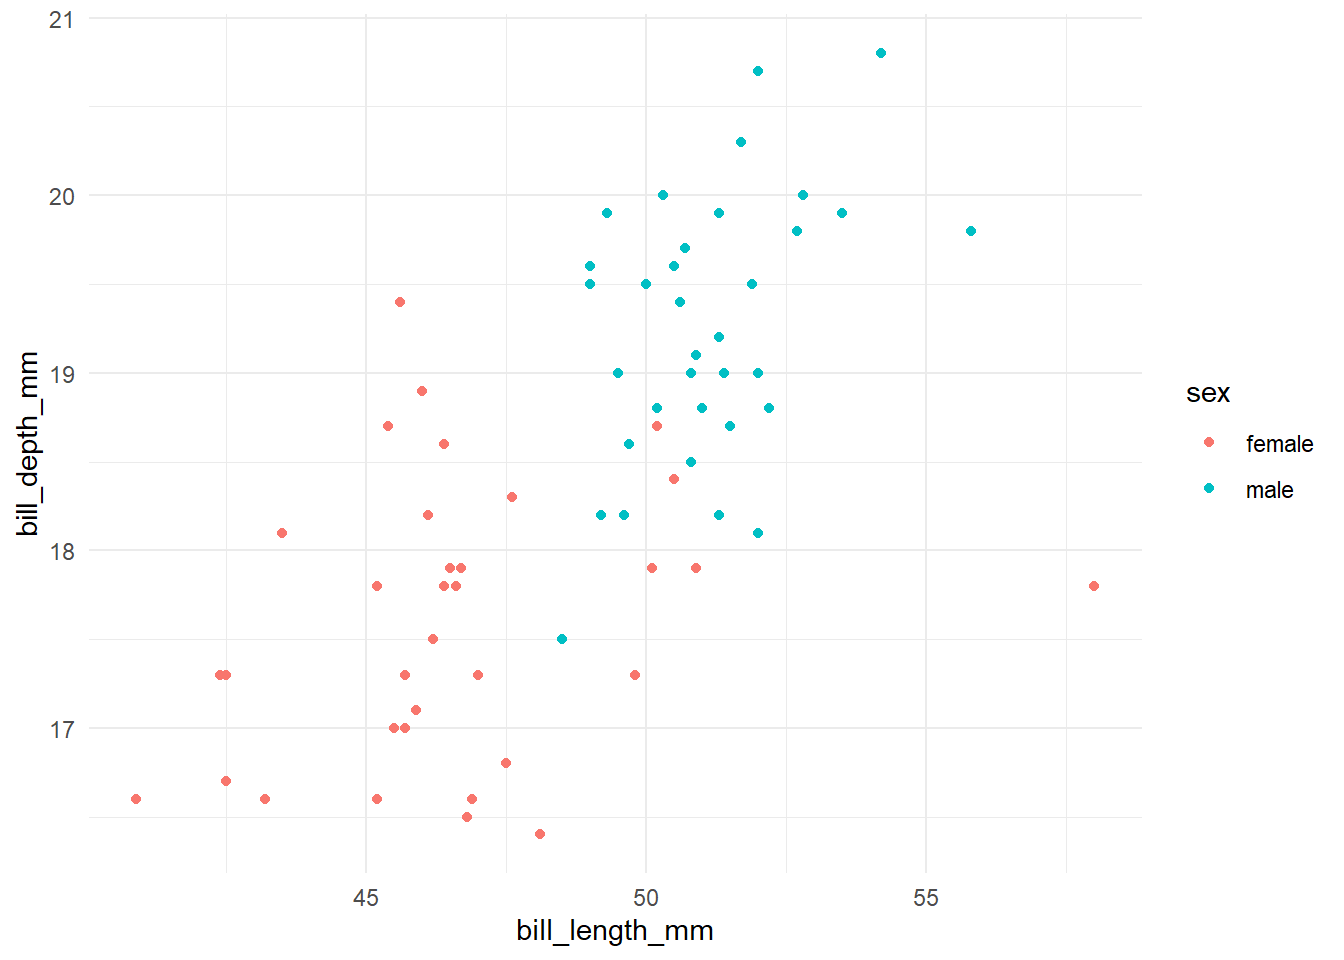
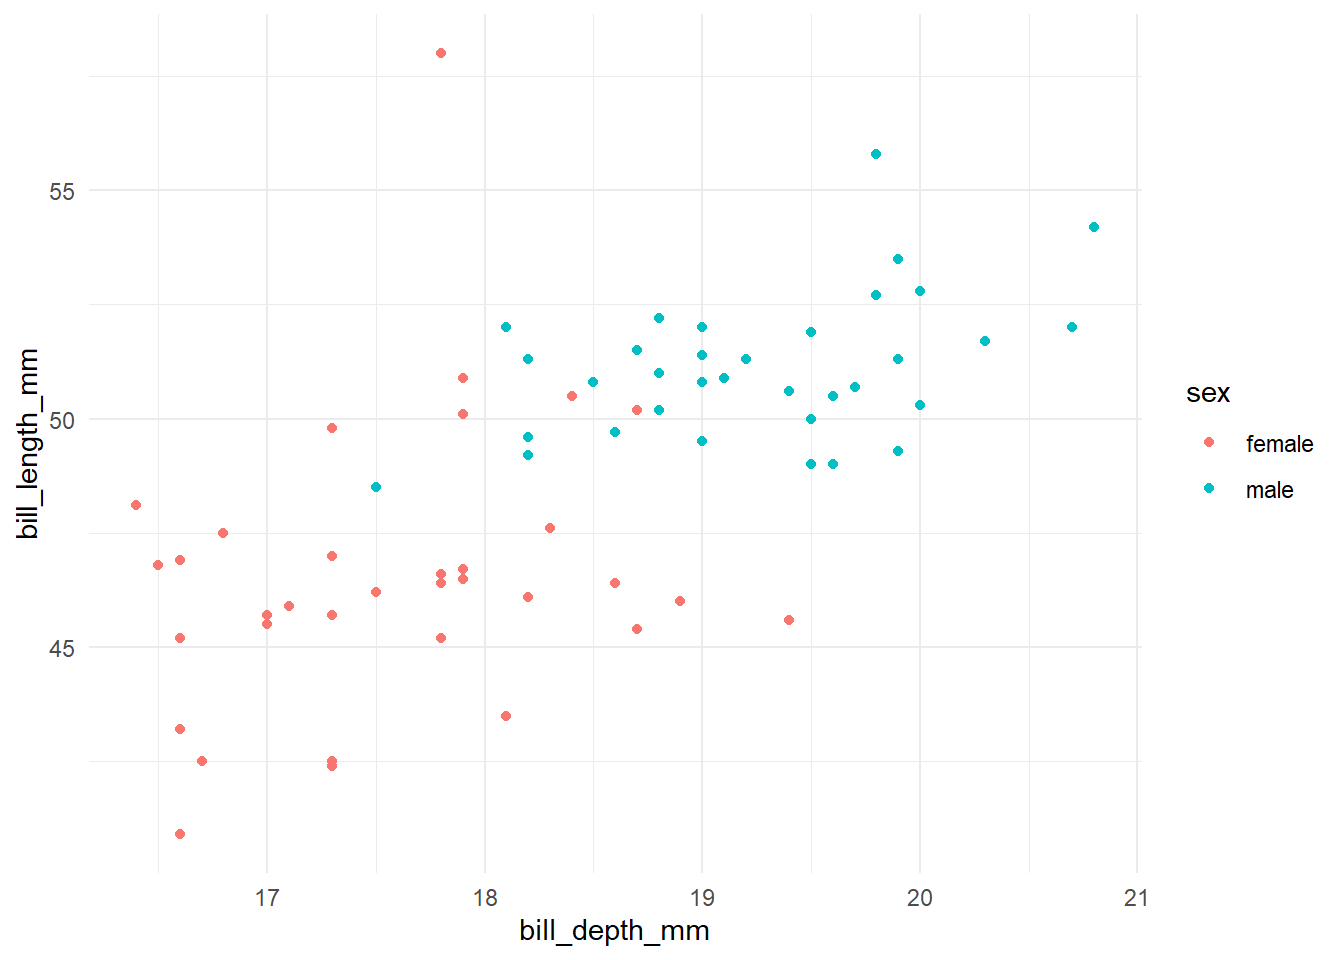
Built site for gh-pages

diff --git a/categorical.html b/categorical.html
@@ -244,8 +244,8 @@ Attaching package: 'tidybayes'</code></pre>
 <span id="cb14-5"><a href="#cb14-5" aria-hidden="true" tabindex="-1"></a>  <span class="fu">filter</span>(<span class="sc">!</span><span class="fu">is.na</span>(sex),</span>
 <span id="cb14-6"><a href="#cb14-6" aria-hidden="true" tabindex="-1"></a>         species <span class="sc">==</span> <span class="st">"Chinstrap"</span>) </span>
 <span id="cb14-7"><a href="#cb14-7" aria-hidden="true" tabindex="-1"></a></span>
-<span id="cb14-8"><a href="#cb14-8" aria-hidden="true" tabindex="-1"></a><span class="fu">ggplot</span>(penguins, <span class="fu">aes</span>(bill_length_mm, </span>
-<span id="cb14-9"><a href="#cb14-9" aria-hidden="true" tabindex="-1"></a>                     bill_depth_mm, </span>
+<span id="cb14-8"><a href="#cb14-8" aria-hidden="true" tabindex="-1"></a><span class="fu">ggplot</span>(penguins, <span class="fu">aes</span>(bill_depth_mm, </span>
+<span id="cb14-9"><a href="#cb14-9" aria-hidden="true" tabindex="-1"></a>                     bill_length_mm, </span>
 <span id="cb14-10"><a href="#cb14-10" aria-hidden="true" tabindex="-1"></a>                     <span class="at">color =</span> sex)) <span class="sc">+</span></span>
 <span id="cb14-11"><a href="#cb14-11" aria-hidden="true" tabindex="-1"></a>  <span class="fu">geom_point</span>()</span></code><button title="Copy to Clipboard" class="code-copy-button"><i class="bi"></i></button></pre></div>
 <div class="cell-output-display">
@@ -273,7 +273,7 @@ Attaching package: 'tidybayes'</code></pre>
 <div class="sourceCode cell-code" id="cb15"><pre class="sourceCode r code-with-copy"><code class="sourceCode r"><span id="cb15-1"><a href="#cb15-1" aria-hidden="true" tabindex="-1"></a>depth_length_sex_brm <span class="ot">&lt;-</span> <span class="fu">brm</span>(</span>
 <span id="cb15-2"><a href="#cb15-2" aria-hidden="true" tabindex="-1"></a>  <span class="at">family =</span> gaussian,</span>
 <span id="cb15-3"><a href="#cb15-3" aria-hidden="true" tabindex="-1"></a>  <span class="at">data =</span> penguins,</span>
-<span id="cb15-4"><a href="#cb15-4" aria-hidden="true" tabindex="-1"></a>  <span class="at">formula =</span> bill_length_mm <span class="sc">~</span> <span class="dv">0</span> <span class="sc">+</span> bill_depth_mm <span class="sc">+</span> sex,</span>
+<span id="cb15-4"><a href="#cb15-4" aria-hidden="true" tabindex="-1"></a>  <span class="at">formula =</span> bill_depth_mm <span class="sc">~</span> <span class="dv">0</span> <span class="sc">+</span> bill_length_mm <span class="sc">+</span> sex,</span>
 <span id="cb15-5"><a href="#cb15-5" aria-hidden="true" tabindex="-1"></a>  <span class="at">prior =</span> <span class="fu">c</span>(</span>
 <span id="cb15-6"><a href="#cb15-6" aria-hidden="true" tabindex="-1"></a>      <span class="fu">prior</span>(<span class="fu">normal</span>(<span class="dv">0</span>, <span class="dv">5</span>), <span class="at">class =</span> b),</span>
 <span id="cb15-7"><a href="#cb15-7" aria-hidden="true" tabindex="-1"></a>      <span class="fu">prior</span>(<span class="fu">uniform</span>(<span class="dv">0</span>, <span class="dv">20</span>), <span class="at">class =</span> sigma, <span class="at">ub =</span> <span class="dv">20</span>)),</span>
@@ -289,20 +289,20 @@ Attaching package: 'tidybayes'</code></pre>
 <div class="cell-output cell-output-stdout">
 <pre><code> Family: gaussian 
   Links: mu = identity; sigma = identity 
-Formula: bill_length_mm ~ 0 + bill_depth_mm + sex 
+Formula: bill_depth_mm ~ 0 + bill_length_mm + sex 
    Data: penguins (Number of observations: 68) 
   Draws: 4 chains, each with iter = 1000; warmup = 500; thin = 1;
          total post-warmup draws = 2000
 
 Regression Coefficients:
-              Estimate Est.Error l-95% CI u-95% CI Rhat Bulk_ESS Tail_ESS
-bill_depth_mm     2.35      0.17     2.03     2.70 1.00      401      574
-sexfemale         5.19      2.91    -0.90    10.76 1.00      401      535
-sexmale           5.79      3.20    -0.83    11.96 1.00      410      575
+               Estimate Est.Error l-95% CI u-95% CI Rhat Bulk_ESS Tail_ESS
+bill_length_mm     0.16      0.04     0.09     0.23 1.01      356      391
+sexfemale         10.28      1.67     7.00    13.64 1.01      356      399
+sexmale           11.24      1.83     7.60    14.84 1.01      361      388
 
 Further Distributional Parameters:
       Estimate Est.Error l-95% CI u-95% CI Rhat Bulk_ESS Tail_ESS
-sigma     2.63      0.25     2.20     3.25 1.01      502      502
+sigma     0.77      0.07     0.65     0.92 1.00      545      664
 
 Draws were sampled using sampling(NUTS). For each parameter, Bulk_ESS
 and Tail_ESS are effective sample size measures, and Rhat is the potential
@@ -331,10 +331,10 @@ scale reduction factor on split chains (at convergence, Rhat = 1).</code></pre>
 <pre><code># A tibble: 4 × 7
   name         value .lower .upper .width .point .interval
   &lt;chr&gt;        &lt;dbl&gt;  &lt;dbl&gt;  &lt;dbl&gt;  &lt;dbl&gt; &lt;chr&gt;  &lt;chr&gt;    
-1 b_sexfemale  5.19   0.644  9.82    0.89 mean   qi       
-2 b_sexmale    5.79   0.651 10.9     0.89 mean   qi       
-3 diff_fm     -0.598 -1.72   0.511   0.89 mean   qi       
-4 sigma        2.63   2.27   3.06    0.89 mean   qi       </code></pre>
+1 b_sexfemale 10.3    7.64  12.9     0.89 mean   qi       
+2 b_sexmale   11.2    8.31  14.1     0.89 mean   qi       
+3 diff_fm     -0.960 -1.34  -0.564   0.89 mean   qi       
+4 sigma        0.772  0.670  0.889   0.89 mean   qi       </code></pre>
 </div>
 </div>
 </section>
@@ -345,7 +345,7 @@ scale reduction factor on split chains (at convergence, Rhat = 1).</code></pre>
 <div class="sourceCode cell-code" id="cb22"><pre class="sourceCode r code-with-copy"><code class="sourceCode r"><span id="cb22-1"><a href="#cb22-1" aria-hidden="true" tabindex="-1"></a>depth_length_sex_brm <span class="ot">&lt;-</span> depth_length_sex_brm <span class="sc">|&gt;</span> <span class="fu">add_criterion</span>(<span class="at">criterion =</span> <span class="fu">c</span>(<span class="st">"waic"</span>, <span class="st">"loo"</span>))</span></code><button title="Copy to Clipboard" class="code-copy-button"><i class="bi"></i></button></pre></div>
 <div class="cell-output cell-output-stderr">
 <pre><code>Warning: 
-1 (1.5%) p_waic estimates greater than 0.4. We recommend trying loo instead.</code></pre>
+2 (2.9%) p_waic estimates greater than 0.4. We recommend trying loo instead.</code></pre>
 </div>
 <div class="sourceCode cell-code" id="cb24"><pre class="sourceCode r code-with-copy"><code class="sourceCode r"><span id="cb24-1"><a href="#cb24-1" aria-hidden="true" tabindex="-1"></a>depth_length_sex_brm<span class="sc">$</span>criteria</span></code><button title="Copy to Clipboard" class="code-copy-button"><i class="bi"></i></button></pre></div>
 <div class="cell-output cell-output-stdout">
@@ -354,23 +354,23 @@ scale reduction factor on split chains (at convergence, Rhat = 1).</code></pre>
 Computed from 2000 by 68 log-likelihood matrix.
 
           Estimate   SE
-elpd_waic   -164.2 10.9
-p_waic         5.0  3.0
-waic         328.4 21.9
+elpd_waic    -80.2  5.7
+p_waic         4.1  1.3
+waic         160.3 11.3
 
-1 (1.5%) p_waic estimates greater than 0.4. We recommend trying loo instead. 
+2 (2.9%) p_waic estimates greater than 0.4. We recommend trying loo instead. 
 
 $loo
 
 Computed from 2000 by 68 log-likelihood matrix.
 
          Estimate   SE
-elpd_loo   -164.2 10.9
-p_loo         5.0  3.0
-looic       328.4 21.8
+elpd_loo    -80.3  5.7
+p_loo         4.2  1.4
+looic       160.5 11.4
 ------
 MCSE of elpd_loo is 0.2.
-MCSE and ESS estimates assume MCMC draws (r_eff in [0.2, 1.0]).
+MCSE and ESS estimates assume MCMC draws (r_eff in [0.2, 1.1]).
 
 All Pareto k estimates are good (k &lt; 0.7).
 See help('pareto-k-diagnostic') for details.</code></pre>
